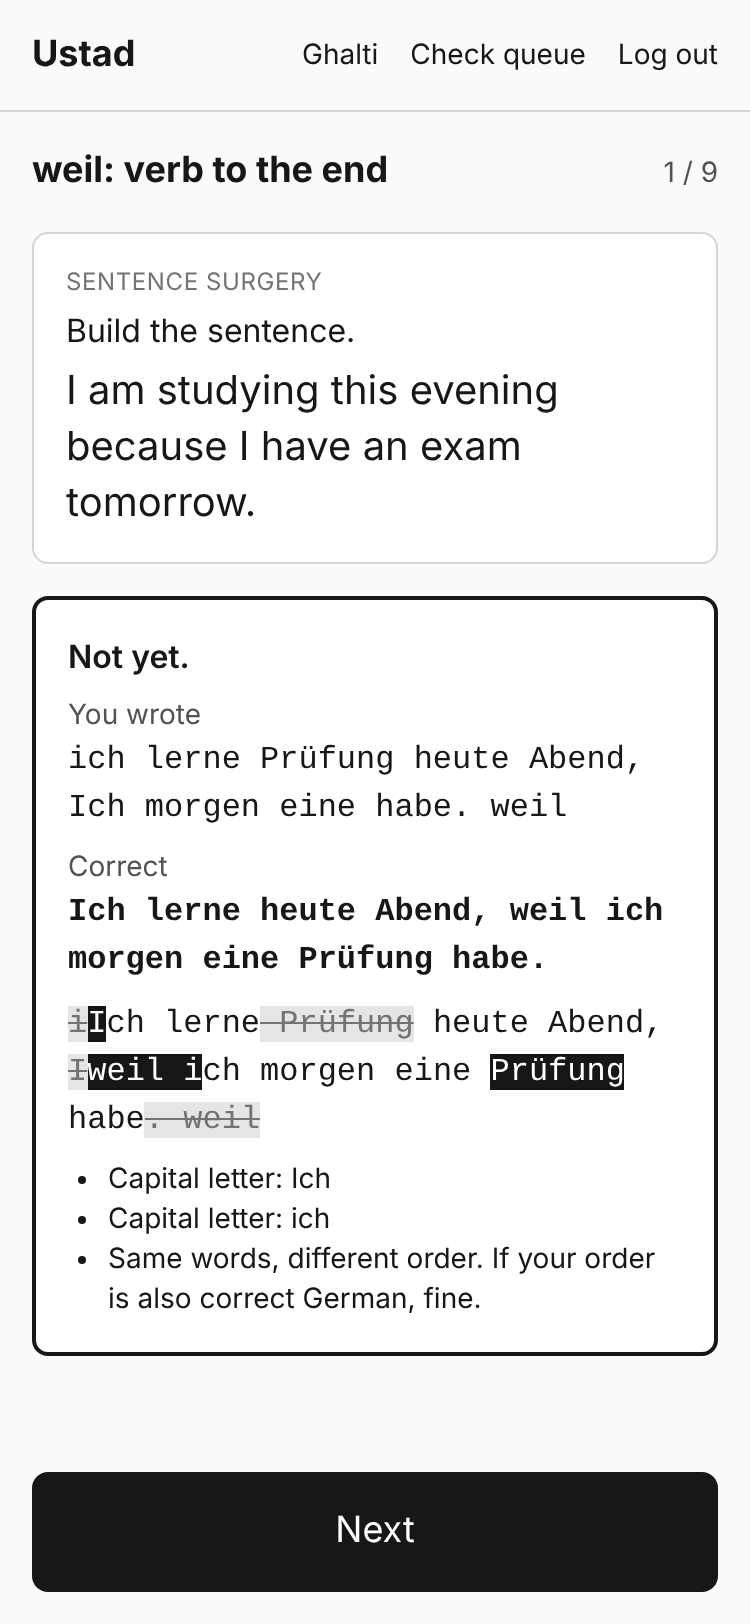
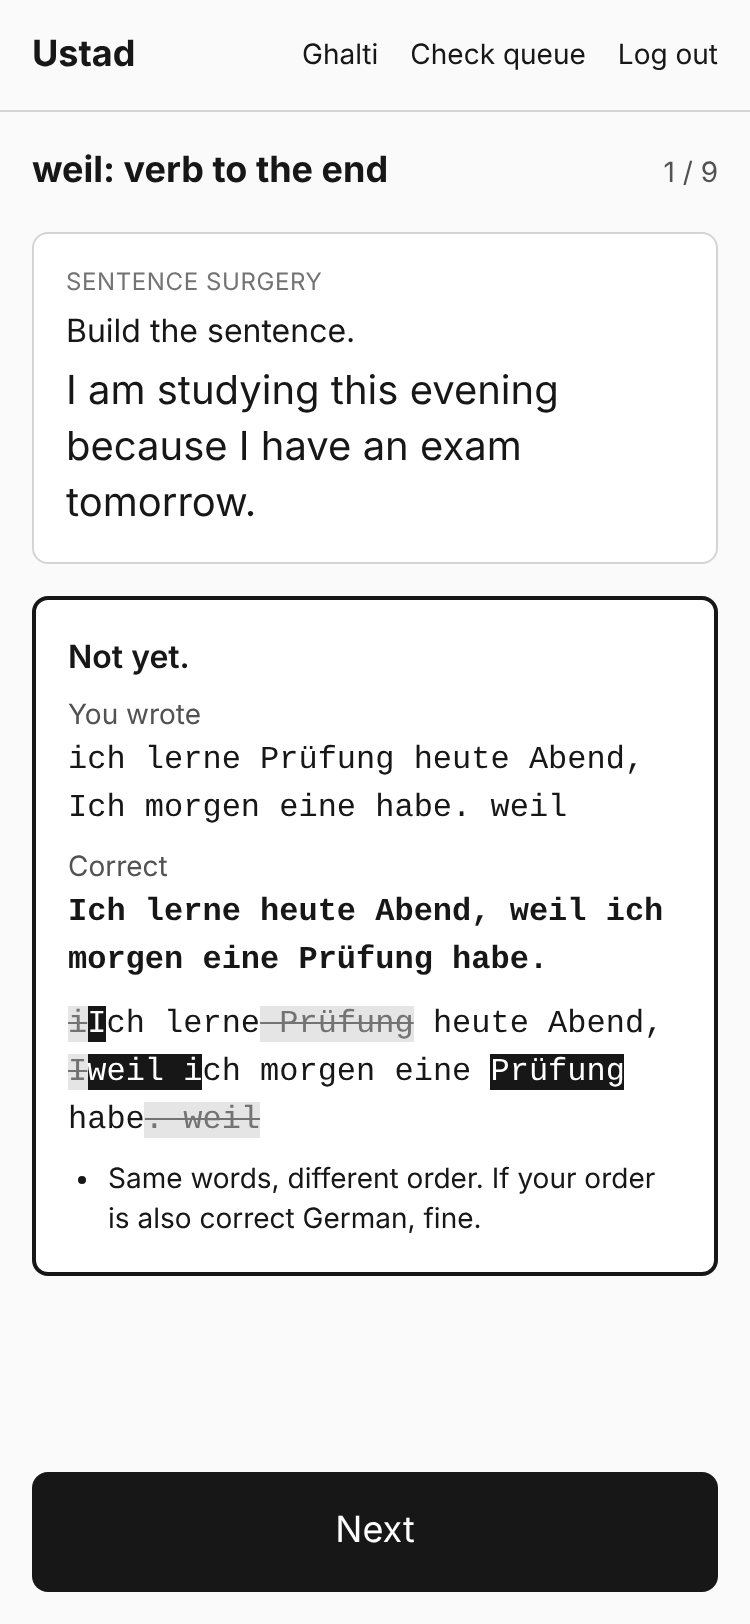
Phase 2: final LanguageTool build, evidence, PROGRESS.md
40 patterns (7 needs_review, false positives), placement 35 items clean, 12 recitation tables.
pytest 162 passed / 5 skipped (real Ollama opt-in), vitest 6, Playwright 5 at 375px.

Claude-Session: https://claude.ai/code/session_011v4v1GzHf5XmuZF3co3fEE

Changed region(s): [[0.092, 0.7081, 0.8893, 0.8005], [0.9507, 0.7697, 0.9813, 0.8313], [0.0307, 0.7697, 0.0613, 0.8313]]

diff --git a/docs/PROGRESS.md b/docs/PROGRESS.md
@@ -173,7 +173,7 @@ cd ../frontend && E2E_SHOTS=$SP/shots PW_CHROMIUM=/opt/pw-browsers/chromium npx 
 | Check | Result |
 |---|---|
 | Builder gate | `GET /api/stats/gate` → `{"study_days_last_7":0,"open":true,"override":true}` (override, see gate log) |
-| 40 patterns, batches of 5, LanguageTool-checked | `make grammar-build`: 8 × "batch_0N.json: 5 patterns checked", PATTERNS_RESULT; placement 35 items, 0 needs_review; recitation 12 tables |
+| 40 patterns, batches of 5, LanguageTool-checked | `make grammar-build`: 8 × "batch_0N.json: 5 patterns checked", "patterns: 40, 7 needs_review" (5 min 24 s, 4 parallel LanguageTool calls); first run flagged 9, 2 were real errors ("wenn/ob ich frei habe" → "freihabe", fixed); placement 35 items, 0 needs_review; recitation 12 tables |
 | Pattern card + 6 drill types | `test_all_six_drill_types_are_generated`; screenshots `docs/evidence/phase2/p2-pattern-card.png`, `p2-drill-surgery.png`, `p2-drill-feedback.png` |
 | Drill generators produce valid items | `tests/test_drills.py`: every drill of all 40 patterns: answer not in prompt, expected answer passes, empty fails, error_spot wrong sentence fails, fill answers not shown earlier |
 | Recitation typed, full → gaps → blank by day | `test_recitation_stages_open_one_per_day`; `p2-recitation.png` |
@@ -182,7 +182,7 @@ cd ../frontend && E2E_SHOTS=$SP/shots PW_CHROMIUM=/opt/pw-browsers/chromium npx 
 | Placement test sets level_band, marks known | `test_placement_sets_level_and_marks_known` (A2 + B1.1 right → "B1.2", seed item known, card scheduled); `p2-placement.png` |
 | Grader schema, 5 fixture sentences, each expected tag | `tests/test_grader_schema.py` 5 fixtures pass (VERB_FINAL; V2_POSITION + VERB_FINAL; AUX_HABEN_SEIN; CASE_DAT; PARTIZIP) with a **mocked** model reply; plus bad-schema rejection, retry, fallback, span drop |
 | Same 5 fixtures on a real local model | **Not run.** `tests/test_grader_llm.py` skips without `RUN_OLLAMA=1`; this container cannot download models (registry.ollama.ai and huggingface.co denied by the network policy). Open item below. |
-| pytest | PYTEST_RESULT |
+| pytest | 162 passed, 5 skipped (the 5 real-model tests) |
 | vitest | 6 passed (RedPen, surgery chips, drill hides answer until Check) |
 | Playwright 375px | 5 passed (3 new Phase 2 + 2 Phase 1); every new screen asserts no horizontal scroll |
 | make lint | ruff check + format clean; oxlint 0 errors (2 old warnings in ReviewSession.tsx); tsc clean |
@@ -193,7 +193,7 @@ cd ../frontend && E2E_SHOTS=$SP/shots PW_CHROMIUM=/opt/pw-browsers/chromium npx 
 - [ ] **Real local-model run.** On Zee's machine: install Ollama, `ollama pull llama3.1:8b`, `make lt-up`,
   `make test-ollama`. All 5 fixtures must find their tags. If not, try another model (`OLLAMA_MODEL=...`)
   and record the result here. Until then the grading quality of the free setup is unmeasured.
-- [ ] **Approve or fix flagged patterns** in the check queue (FLAGGED_LIST). They stay out of drills until then.
+- [ ] **Approve or fix flagged patterns** in the check queue (7, all look like false positives: speller on Lahore, MiCA, Coin, CFA in V2_INVERSION, VE_ALS, MODAL_INFINITIVE, RELATIVE_CLAUSE, KONJ2_WISH, FUTURE; SCHENKEN_DATIV on the correct "Ich gebe ihn ihr." in MIDDLE_FIELD_ORDER). They stay out of drills until then.
 - LanguageTool 6.8 misses some errors the model must catch, e.g. "Am Wochenende habe ich nach Frankfurt
   gefahren." gives no match (it does flag "Ich habe gestern nach Hause gegangen."). The LanguageTool-only
   fallback is a safety net, not a grader.
